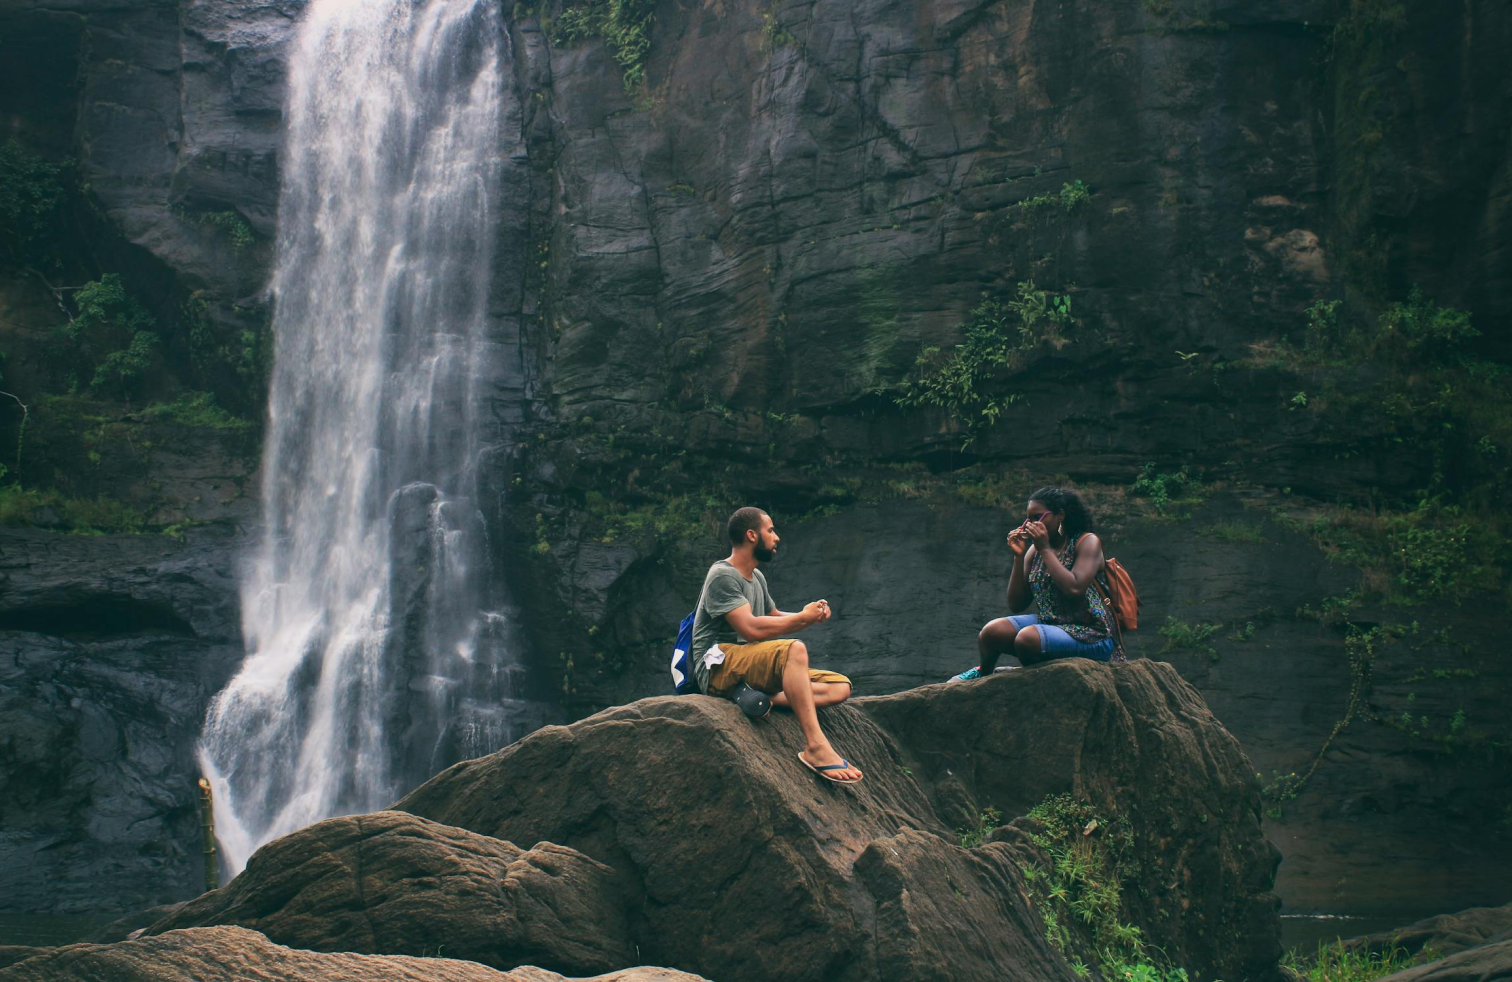
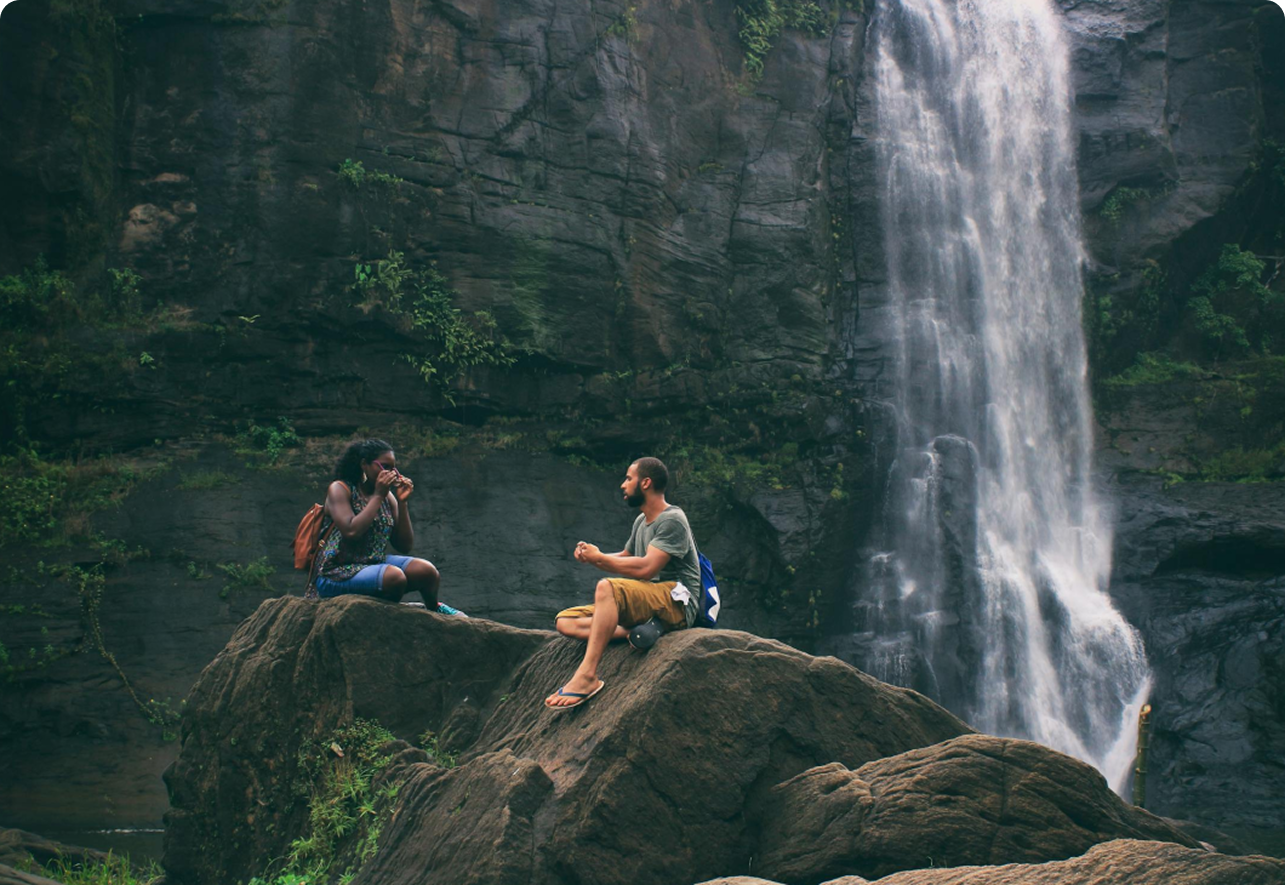
carrousel navigate

diff --git a/src/app/components/project-card/project-card.component.html b/src/app/components/project-card/project-card.component.html
@@ -1,34 +1,51 @@
-<section class="w-full h-screen flex items-center justify-center bg-cover bg-center"[ngStyle]="{ 'background-image': 'url(' + background + ')' }">
-    <div class="w-full h-full flex flex-col justify-between px-20 py-12">
+<section class="w-full h-screen flex flex-col justify-between px-20 py-12 bg-cover bg-center" [ngStyle]="{ 'background-image': 'url(' + currentProject.background + ')' }">
 
-        <!-- Haut : Miniature seule -->
-        <div class="mt-6 mb-10 w-48 h-48 bg-gray-800 rounded-xl shadow-lg overflow-hidden">
-            <img [src]="image" alt="Miniature" class="w-full h-full object-cover" />
+    <div class="absolute inset-0 bg-black/30 backdrop-blur-sm z-0"></div>
+
+    <!-- Container -->
+    <div class="relative z-10 flex flex-col justify-between h-full">
+        <!-- Carousel -->
+        <div class="relative w-full h-48 mb-12 overflow-visible">
+            <div class="relative w-full h-full">
+                <div #carouselList class="absolute top-[88px] h-full flex gap-3">
+
+                    <div *ngFor="let project of projects; let i = index" class="transition-all duration-500 cursor-pointer rounded-xl shadow-lg overflow-hidden"
+                    [ngClass]="{
+                        'w-36 h-36 scale-110 border-4 border-white z-10': i === currentProjectIndex,
+                        'w-24 h-24 opacity-80 z-0': i !== currentProjectIndex
+                    }"
+                    (click)="selectProject(i)"
+                    >
+                    <img
+                        [src]="project.image"
+                        alt="{{ project.title }}"
+                        class="w-full h-full object-cover"
+                    />
+                    </div>
+                </div>
+            </div>
         </div>
-        <!-- Milieu : Titre + Description + Bouton -->
-        <div class="flex flex-col gap-4">
-            <!-- Titre -->
-            <h1 [ngClass]="[fontClass, textColor, 'text-6xl', 'font-bold', 'tracking-wide']">
-                {{ title }}
-            </h1>
 
-            <!-- Description -->
-            <p [ngClass]="['font-montserrat', textColor, 'text-lg', 'opacity-80', 'tracking-wide']">
-                {{ description }}
+        <!-- Titre & Description -->
+        <div class="flex flex-col gap-4">
+            <h1 [ngClass]="[currentProject.fontClass, currentProject.textColor, 'text-6xl', 'font-bold', 'tracking-wide']">
+                {{ currentProject.title }}
+            </h1>
+            <p [ngClass]="['font-montserrat', currentProject.textColor, 'text-lg', 'opacity-80', 'tracking-wide']">
+                {{ currentProject.description }}
             </p>
 
-            <!-- Bas : Bouton + Techno -->
+            <!-- Bouton & Technos -->
             <div class="flex justify-between items-center w-full mt-6">
-                <!-- Bouton -->
+            <!-- Bouton -->
                 <button class="w-72 py-5 bg-black/60 text-white text-xl font-semibold rounded-full backdrop-blur-sm hover:bg-white/20 hover:text-black transition">
                     Voir Plus
                 </button>
-
-                <!-- Bloc techno -->
+            <!-- Bloc techno -->
                 <div class="bg-black/50 text-white px-10 py-6 rounded-xl shadow-lg text-lg">
                     <p class="opacity-60 text-base mb-1">Technologies</p>
                     <p class="font-semibold text-2xl">
-                        {{ technos.join(', ') }}
+                        {{ currentProject.technos.join(', ') }}
                     </p>
                 </div>
             </div>

diff --git a/src/app/components/project-card/project-card.component.ts b/src/app/components/project-card/project-card.component.ts
@@ -1,26 +1,57 @@
-import { Component, Input } from '@angular/core';
+import { Component, Input, Output, EventEmitter, ElementRef, ViewChild, AfterViewInit, OnChanges, SimpleChanges } from '@angular/core';
 import { CommonModule } from '@angular/common';
+import { Project } from '../../interfaces/project';
+import gsap from 'gsap';
+
 
 @Component({
     selector: 'app-project-card',
+    standalone: true,
     imports: [CommonModule],
     templateUrl: './project-card.component.html',
     styleUrls: ['./project-card.component.scss']
 })
-export class ProjectCardComponent {
 
-    @Input() title!: string;
-    @Input() description!: string;
-    @Input() image!: string;
-    @Input() background!: string;
-    @Input() technos!: string[];
-    @Input() fontClass!: string;
-    @Input() textColor!: string;
+export class ProjectCardComponent implements AfterViewInit, OnChanges {
+    @Input() projects: Project[] = [];
+    @Input() currentProjectIndex = 0;
+    @Output() projectSelected = new EventEmitter<number>();
 
+    @ViewChild('carouselList', { static: false }) carouselListRef!: ElementRef;
 
-ngOnInit() {
-    console.log('Font', this.fontClass)
-    console.log('Color', this.textColor)
-}
+    ngAfterViewInit(): void {
+        this.updateCarouselPosition();
+    }
 
+    ngOnChanges(changes: SimpleChanges): void {
+        if (changes['currentProjectIndex'] && !changes['currentProjectIndex'].firstChange) {
+            this.updateCarouselPosition();
+        }
+    }
+
+    get currentProject(): Project {
+        return this.projects[this.currentProjectIndex];
+    }
+
+    selectProject(index: number): void {
+        this.projectSelected.emit(index);
+    }
+
+    updateCarouselPosition(): void {
+        if (!this.carouselListRef?.nativeElement) return;
+
+        const baseCardWidth = 96; // w-24
+        const activeCardWidth = 144; // w-36
+        const gap = 12; // gap-6
+        const cardSpacing = baseCardWidth + gap;
+        const offset = this.currentProjectIndex * cardSpacing + (activeCardWidth - baseCardWidth) / 2;
+
+        gsap.to(this.carouselListRef.nativeElement, {
+            x: -offset + 32,
+            duration: 0.6,
+            ease: 'power2.out',
+        });
+        
+
+    }
 }

diff --git a/src/app/pages/home-page/home-page.component.ts b/src/app/pages/home-page/home-page.component.ts
@@ -1,17 +1,21 @@
 import { Component } from '@angular/core';
 import { projectData } from '../../data/project-data';
-import { ProjectCardComponent } from "../../components/project-card/project-card.component";
+import { Project } from '../../interfaces/project';
+import { ProjectCardComponent } from '../../components/project-card/project-card.component';
 import { CommonModule } from '@angular/common';
 
 @Component({
-    selector: 'app-home-page',
-    standalone: true,
-    imports: [ CommonModule, ProjectCardComponent],
-    templateUrl: './home-page.component.html',
-    styleUrl: './home-page.component.scss'
+  selector: 'app-home-page',
+  standalone: true,
+  imports: [CommonModule, ProjectCardComponent],
+  templateUrl: './home-page.component.html',
+  styleUrl: './home-page.component.scss',
 })
 export class HomePageComponent {
+  projects: Project[] = projectData;
+  currentProjectIndex = 0;
 
-    projects = projectData;
-
+  onProjectSelected(index: number) {
+    this.currentProjectIndex = index;
+  }
 }

diff --git a/src/app/components/navigation/navigation.component.spec.ts b/src/app/components/navigation/navigation.component.spec.ts
@@ -1,18 +1,18 @@
 import { ComponentFixture, TestBed } from '@angular/core/testing';
 
-import { HomePageComponent } from './home-page.component';
+import { NavigationComponent } from './navigation.component';
 
-describe('HomePageComponent', () => {
-    let component: HomePageComponent;
-    let fixture: ComponentFixture<HomePageComponent>;
+describe('NavigationComponent', () => {
+    let component: NavigationComponent;
+    let fixture: ComponentFixture<NavigationComponent>;
 
     beforeEach(async () => {
         await TestBed.configureTestingModule({
-            imports: [HomePageComponent]
+            imports: [NavigationComponent]
         })
         .compileComponents();
 
-        fixture = TestBed.createComponent(HomePageComponent);
+        fixture = TestBed.createComponent(NavigationComponent);
         component = fixture.componentInstance;
         fixture.detectChanges();
     });

diff --git a/src/app/components/navigation/navigation.component.ts b/src/app/components/navigation/navigation.component.ts
@@ -1,0 +1,31 @@
+import { Component, Input, EventEmitter, Output } from '@angular/core';
+import { Project } from '../../interfaces/project';
+import { CommonModule } from '@angular/common';
+
+@Component({
+    selector: 'app-navigation',
+    standalone: true,
+    imports: [ CommonModule ],
+    templateUrl: './navigation.component.html',
+    styleUrl: './navigation.component.scss'
+})
+export class NavigationComponent {
+
+    @Input() projects: Project[] = [];
+    @Output() projectSelected = new EventEmitter<number>();
+
+    selectProject(index: number) {
+        this.projectSelected.emit(index);
+    }
+
+    @Input() currentProjectIndex!: number;
+
+    calculateTranslateX(): number {
+        const itemWidth = 160 + 24; // w-40 + gap-6
+        const center = Math.floor(this.projects.length / 2);
+        return (center - this.currentProjectIndex) * itemWidth;
+    }
+
+}
+
+

diff --git a/src/app/data/project-data.ts b/src/app/data/project-data.ts
@@ -5,8 +5,8 @@ export const projectData: Project[] = [
     {
         id: 1,
         title: 'CZIZOU',
-        description: 'Site personnel résumant mes derniers projets',
-        image: 'assets/tn-img/tnCzizou.png',
+        description: 'Site personnel',
+        image: 'assets/tn-img/tnCz.png',
         background: 'assets/bg-img/cZizou.png',
         technos: ['Angular', 'GSAP', 'Tailwind', 'ThreeJS'],
         fontClass: 'font-playstation',
@@ -26,7 +26,7 @@ export const projectData: Project[] = [
     {
         id: 3,
         title: 'Arekipa',
-        description: 'Refonte visuelle du site Arekipa',
+        description: 'Refonte du site Arekipa',
         image: 'assets/tn-img/tnArekipa.png',
         background: 'assets/bg-img/arekipa.png',
         technos: ['Wordpress', 'Javascript', 'PHP', 'MySQL'],

diff --git a/src/app/pages/home-page/home-page.component.html b/src/app/pages/home-page/home-page.component.html
@@ -1,15 +1,10 @@
 <section class="home-page w-full min-h-screen bg-neutral-900 flex flex-col items-center justify-center gap-20">
     <div class="w-full flex flex-col gap-20">
-        <app-project-card
-        *ngFor="let project of projects"
-        [title]="project.title"
-        [description]="project.description"
-        [image]="project.image"
-        [background]="project.background"
-        [technos]="project.technos"
-        [fontClass]="project.fontClass"
-        [textColor]="project.textColor">
-        </app-project-card>
+      <app-project-card
+        [projects]="projects"
+        [currentProjectIndex]="currentProjectIndex"
+        (projectSelected)="onProjectSelected($event)">
+      </app-project-card>
     </div>
-</section>
+  </section>
   

diff --git a/src/app/components/navigation/navigation.component.html b/src/app/components/navigation/navigation.component.html
@@ -1,0 +1,20 @@
+<div class="w-full flex justify-center overflow-hidden">
+    <div
+      class="flex gap-6 transition-transform duration-500 ease-in-out"
+      [ngStyle]="{
+        transform: 'translateX(' + calculateTranslateX() + 'px)'
+      }"
+    >
+      <ng-container *ngFor="let project of projects; let i = index">
+        <img
+          [src]="project.image"
+          (click)="selectProject(i)"
+          [ngClass]="[
+            'object-cover rounded-xl cursor-pointer transition-all duration-300',
+            i === currentProjectIndex ? 'w-40 h-40 scale-110 ring-4 ring-white z-10' : 'w-32 h-32 opacity-80'
+          ]"
+        />
+      </ng-container>
+    </div>
+  </div>
+  

diff --git a/src/app/components/project-card/project-card.component.spec.ts b/src/app/components/project-card/project-card.component.spec.ts
@@ -12,12 +12,12 @@ describe('ProjectCardComponent', () => {
         })
         .compileComponents();
 
-        fixture = TestBed.createComponent(ProjectCardComponent);
-        component = fixture.componentInstance;
-        fixture.detectChanges();
+    fixture = TestBed.createComponent(ProjectCardComponent);
+    component = fixture.componentInstance;
+    fixture.detectChanges();
     });
 
-    it('should create', () => {
-        expect(component).toBeTruthy();
-    });
+  it('should create', () => {
+    expect(component).toBeTruthy();
+  });
 });

diff --git a/src/styles.scss b/src/styles.scss
@@ -20,3 +20,12 @@ html, body, app-root {
     @apply w-screen h-screen m-0 p-0 overflow-hidden;
 }
 
+/* styles.scss */
+.scrollbar-hide {
+    -ms-overflow-style: none; /* IE/Edge */
+    scrollbar-width: none; /* Firefox */
+  }
+  .scrollbar-hide::-webkit-scrollbar {
+    display: none; /* Chrome/Safari */
+  }
+  
